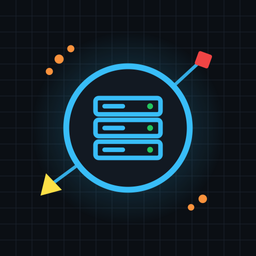
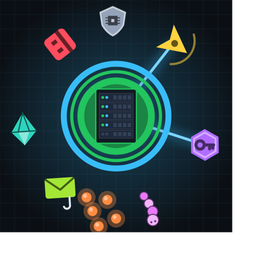
Add files via upload

diff --git a/style.css b/style.css
@@ -11,7 +11,9 @@ body {
 }
 .wrap { max-width: 760px; margin: 0 auto; padding: 24px 16px 64px; }
 header { display: flex; align-items: center; justify-content: space-between; gap: 12px; flex-wrap: wrap; margin-bottom: 24px; }
-.brand { font: 700 18px ui-monospace, Consolas, monospace; color: var(--green); text-decoration: none; }
+.brand { display: inline-flex; align-items: center; gap: 8px; font-weight: 800; font-size: 20px; color: var(--text); text-decoration: none; }
+.brand b { color: var(--green); }
+.ug-mark { width: 30px; height: 30px; }
 nav a { color: var(--muted); text-decoration: none; margin-left: 14px; font-size: 14px; }
 nav a:hover, nav a.on { color: var(--text); }
 .langs { display: flex; gap: 6px; margin: 0 0 20px; }

diff --git a/index.html b/index.html
@@ -17,7 +17,7 @@
 <body>
 <div class="wrap">
   <header>
-    <a class="brand" data-href="index.html" href="index.html">~/uptime-games $</a>
+    <a class="brand" data-href="index.html" href="index.html"><svg class="ug-mark" viewBox="0 0 120 120" aria-hidden="true"><path d="M14 74h24l8-22 12 40 12-56 10 38h26" fill="none" stroke="#22c55e" stroke-width="10" stroke-linecap="round" stroke-linejoin="round"/><path d="M92 30h14v14" fill="none" stroke="#38bdf8" stroke-width="10" stroke-linecap="round" stroke-linejoin="round"/></svg>Uptime <b>Games</b></a>
     <nav>
       <a class="on" data-href="index.html" href="index.html">Homelab Idle</a>
       <a data-href="privacy.html" href="privacy.html">Privacy</a>

diff --git a/privacy.html b/privacy.html
@@ -9,7 +9,7 @@
 <body>
 <div class="wrap">
   <header>
-    <a class="brand" data-href="index.html" href="index.html">~/uptime-games $</a>
+    <a class="brand" data-href="index.html" href="index.html"><svg class="ug-mark" viewBox="0 0 120 120" aria-hidden="true"><path d="M14 74h24l8-22 12 40 12-56 10 38h26" fill="none" stroke="#22c55e" stroke-width="10" stroke-linecap="round" stroke-linejoin="round"/><path d="M92 30h14v14" fill="none" stroke="#38bdf8" stroke-width="10" stroke-linecap="round" stroke-linejoin="round"/></svg>Uptime <b>Games</b></a>
     <nav>
       <a data-href="index.html" href="index.html">Homelab Idle</a>
       <a class="on" data-href="privacy.html" href="privacy.html">Privacy</a>

diff --git a/delete.html b/delete.html
@@ -9,7 +9,7 @@
 <body>
 <div class="wrap">
   <header>
-    <a class="brand" data-href="index.html" href="index.html">~/uptime-games $</a>
+    <a class="brand" data-href="index.html" href="index.html"><svg class="ug-mark" viewBox="0 0 120 120" aria-hidden="true"><path d="M14 74h24l8-22 12 40 12-56 10 38h26" fill="none" stroke="#22c55e" stroke-width="10" stroke-linecap="round" stroke-linejoin="round"/><path d="M92 30h14v14" fill="none" stroke="#38bdf8" stroke-width="10" stroke-linecap="round" stroke-linejoin="round"/></svg>Uptime <b>Games</b></a>
     <nav>
       <a data-href="index.html" href="index.html">Homelab Idle</a>
       <a data-href="privacy.html" href="privacy.html">Privacy</a>
